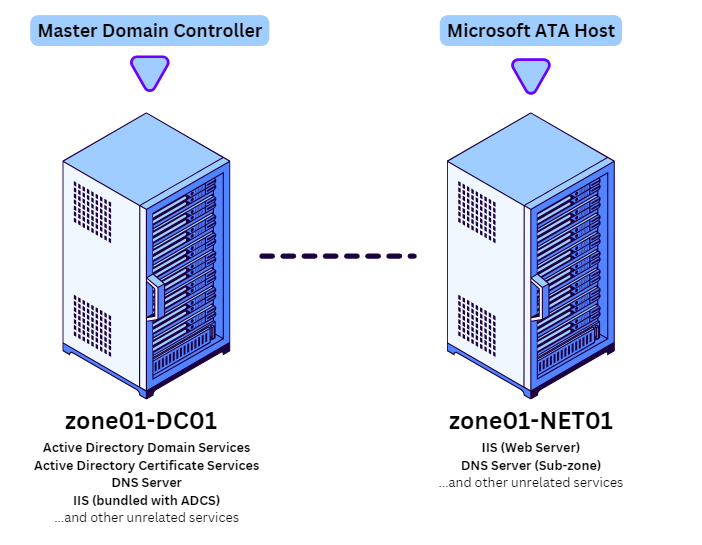
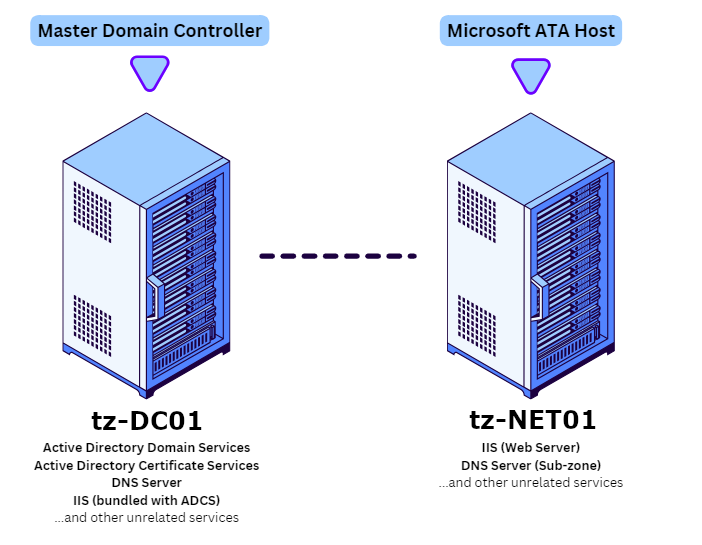
update part 1

Changed region(s): [[0.6282, 0.7486, 0.8675, 0.811], [0.0897, 0.7486, 0.3291, 0.811]]

diff --git a/Part 1 - Preparing environment.md b/Part 1 - Preparing environment.md
@@ -2,15 +2,19 @@
 
 ## Briefing about the testing domain. Administrative notes
 
-About the domain `testzone01.asp.theflightsims.eu.org`:
+About the domain `tz.chigaku.opendomain.edu.pl`:
 
-> TheFlightSims is an international company primarily researching and engineering in the aerospace industry. Globally, the company has offices in North America (Boston and Florida, both in the US) and Asia Pacific (Tokyo - Japan, Can Tho - Vietnam, and Singapore).
+> TheFlightSims is a dark-web company and an international company primarily researching and engineering in the aerospace industry. Globally, the company has offices in North America (Boston and Florida, both in the US) and Asia Pacific (Tokyo - Japan, Can Tho - Vietnam, and Singapore).
 >
-> In the Asia Pacific zone (`asp.theflightsims.eu.org`), the regional administrators decided to open a new DNS sub-zone, named "testzone01", as the zone where all the software testing proceeded. One of many tests that those engineers perform is to increase the level of security of the current setting by testing which one is effective.
+> In 2024, TheFlightSims and the partners have deployed a DNS named `opendomain.edu.pl`. The primary goal of the project is, providing the free and community-maintained domain, open for community open-source projects and students and researchers in developing their personal projects.
+>
+> With that goal and to develop the pseudo tenant on Microsoft Azure, named *Chigaku University*. It contains the production zone `chigaku.opendomain.edu.pl` and a testing zone `tz.chigaku.opendomain.edu.pl`. Unlike the production zone - which is using Entra ID (formerly known as Azure Active Directory), the testing zone uses the local deployment of Active Directory, running on Windows Server 2022.
+>
+> In several testing procedures, later then the sync between the two, both zones have been facing the major security issues. The administrators then look for a solution from Microsoft.
 >
 > They have chosen Microsoft Advanced Threat Analytics (or ATA in short) as the threat analytical tool for potential attack and virus protection for all domain controllers, functional servers, and essential computers. However, they noticed that ATA only runs on port 443. It quickly becomes serious because the chosen server runs Windows Server 2022 with IIS installed as the web server and proxy server, which is already configured with port 443.
 
-The domain `testzone01.asp.theflightsims.eu.org` is an Active Directory Domain-configured, where the DNS Server is also running within the domain and installed on the Domain Controller. DNSSEC is not enabled on this sub-zone.
+The domain `tz.chigaku.opendomain.edu.pl` is an Active Directory Domain-configured, where the DNS Server is also running within the domain and installed on the Domain Controller. DNSSEC is not enabled on this sub-zone.
 
 Take note of the servers and their services below. Unrelated servers and services don't count in the graphic.
 
@@ -20,39 +24,35 @@ Take note of the servers and their services below. Unrelated servers and service
 
 ## Administrator plans
 
-Since the `zone01-NET01` is already the web server (using 80 and 443 ports), it is good to know that the proxy server is also the zone01-NET01. That means Microsoft ATA should be configured in port 8080 (or any other available port) and reserve the 443 for IIS.
+Since the `tz-NET01` is already the web server (using 80 and 443 ports), it is good to know that the proxy server is also the tz-NET01. That means Microsoft ATA should be configured in port 8080 (or any other available port) and reserve the 443 for IIS.
 
 After checking the ATA is running successfully in port 8080, the IIS will be used as the proxy server to control the traffic in and out for the ATA.
 
-> IIS `zone01-NET01` will be configured like this:
+> IIS `tz-NET01` will be configured like this:
 >
-> - "Default Web Site" will respond for hostname `zone01-NET01.testzone01.asp.theflightsims.eu.org`
-> - "Microsoft ATA" will respond for hostname `defender.testzone01.asp.theflightsims.eu.org`
+> - "Default Web Site" will respond for hostname `tz-NET01.tz.chigaku.opendomain.edu.pl`
+> - "Microsoft ATA" will respond for hostname `defender.tz.chigaku.opendomain.edu.pl`
 > - Configure this host name in **Blinding > {Select your type, either http or https} > Host name**. Remember to check the box "Require Server Name Indication" when available.
 >
-> DNS Server in `zone01-DC01` will be configured like this:
+> DNS Server in `tz-DC01` will be configured like this:
 >
-> - Update the CNAME of `defender.testzone01.asp.theflightsims.eu.org` address to the IP address of `zone01-NET01.testzone01.asp.theflightsims.eu.org`
+> - Update the CNAME of `defender.tz.chigaku.opendomain.edu.pl` address to the IP address of `tz-NET01.tz.chigaku.opendomain.edu.pl`
 
 ## Preparing environment for the ATA setup
 
-1. First of all, it is the certificate. The new DNS will be `defender.testzone01.asp.theflightsims.eu.org`. Make sure the DNS' certificate is `defender.testzone01.asp.theflightsims.eu.org`
+1. First of all, it is the certificate. The new DNS will be `defender.tz.chigaku.opendomain.edu.pl`. Make sure the DNS' certificate is `defender.tz.chigaku.opendomain.edu.pl`
 
 <p align="center">
  <img src="./img/certificate_setup.png" alt="Setup Certificate"/>
 </p>
 
-Once the setup is running, select the certificate that has been configured. (In that case, the certificate corresponds to `defender.testzone01.asp.theflightsims.eu.org`)
+Once the setup is running, select the certificate that has been configured. (In that case, the certificate corresponds to `defender.tz.chigaku.opendomain.edu.pl`)
 
 <p align="center">
  <img src="./img/ata_setup_with_configured_certficate.png" alt="Select the certificate while installing ATA" />
 </p>
 
-2. Prevent all running IIS hosts using blinding port 443 but not deleting it. For example, "Default Web Site" by default uses port 443 - which is recommended to temporarily stop because the ATA is not yet configured.
-
-<p align="center">
- <img src="./img/iis_pre_setup.png" alt="IIS before setup ATA" />
-</p>
+1. Prevent all running IIS hosts using blinding port 443 but not deleting it. For example, "Default Web Site" by default uses port 443 - which is recommended to temporarily stop because the ATA is not yet configured.
 
 ## Next step
 
